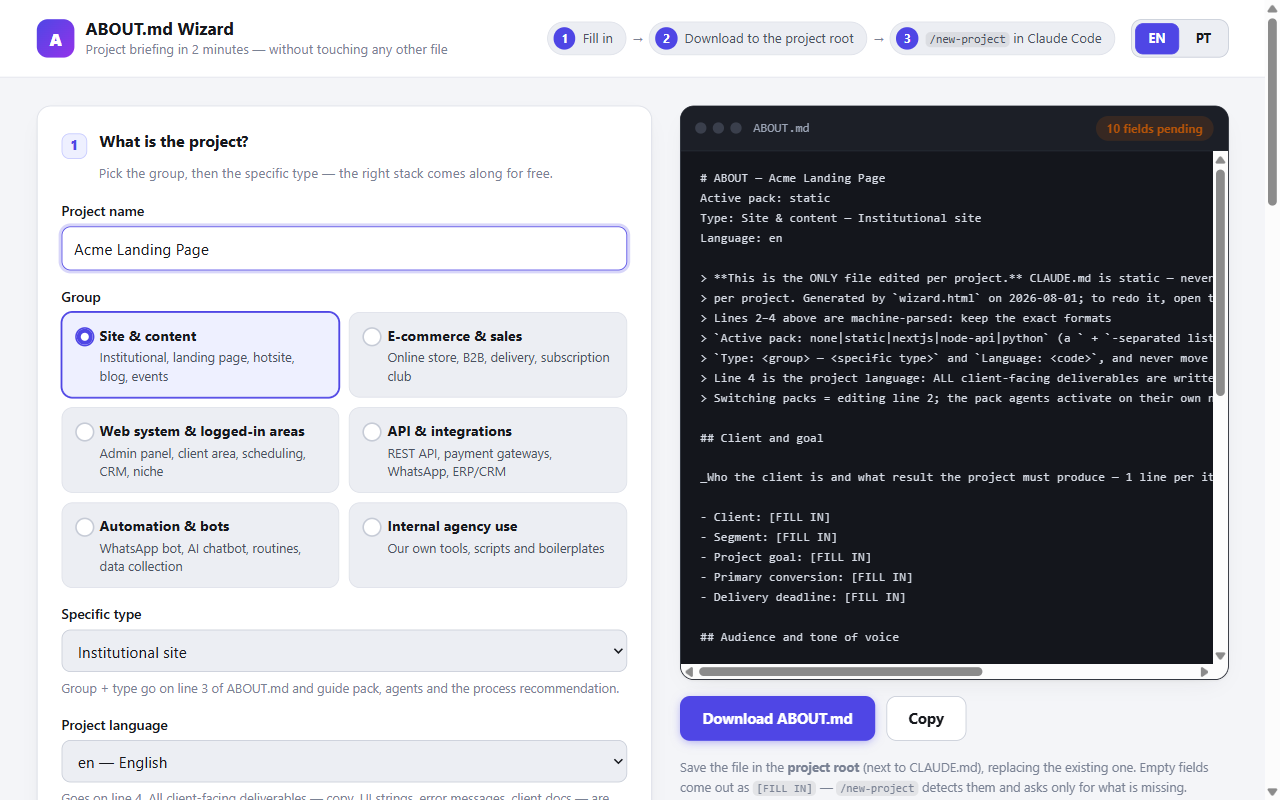
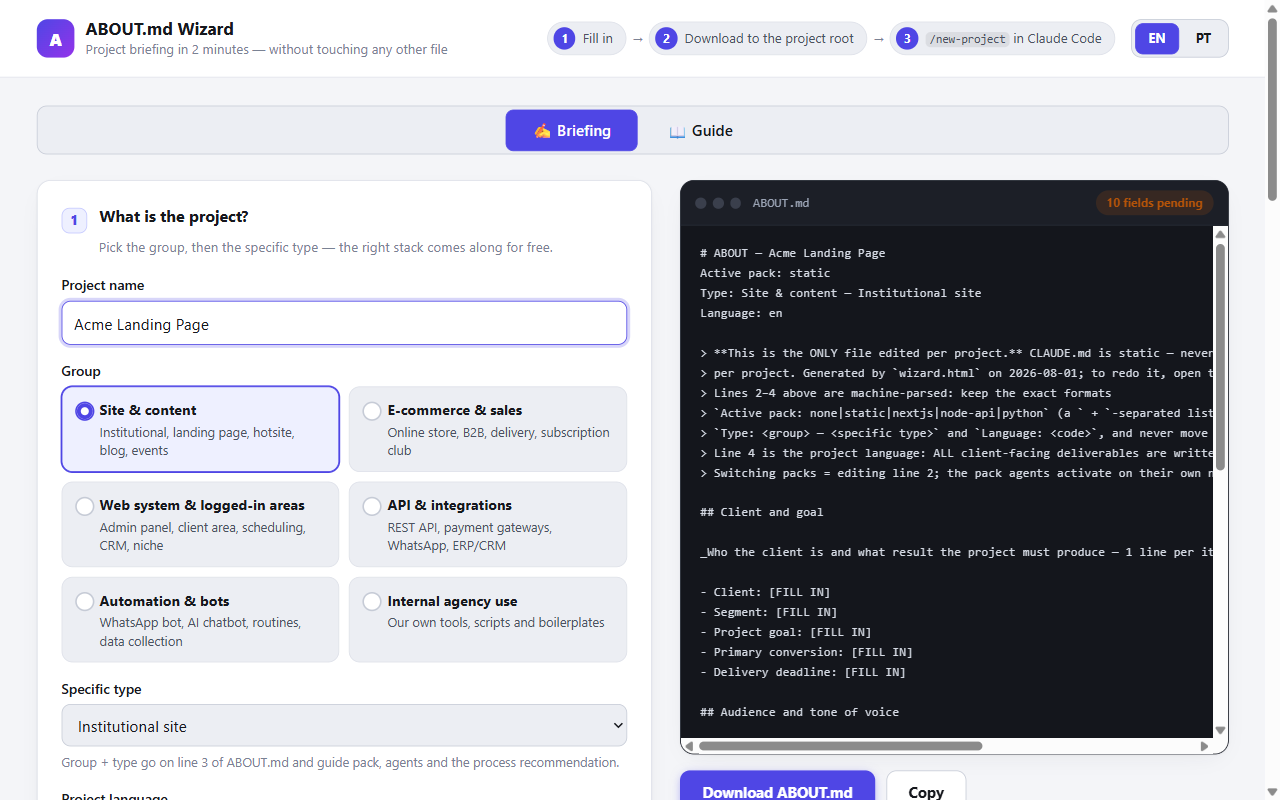
fix: first-impression audit — scaffold lints clean out of the box, editor noise gone, refreshed hero screenshot
- node-api health.ts: callback-style plugin so npm run lint passes as
  SCAFFOLD.md promises (sandbox-verified: lint/typecheck/test/build all 0)
- eslint.config.mjs: drop // @ts-check (imported packages don't exist in
  the template folder; editors flagged 4 phantom errors)
- new-project.md: MCP catalog heading reference aligned
- wizard.png: re-shot with the Briefing|Guide tab selector visible

diff --git a/.claude/packs/node-api/scaffold/src/routes/health.ts b/.claude/packs/node-api/scaffold/src/routes/health.ts
@@ -1,4 +1,4 @@
-import type { FastifyInstance } from 'fastify';
+import type { FastifyPluginCallback } from 'fastify';
 
 /** Health check response body. */
 interface HealthResponse {
@@ -14,9 +14,10 @@ interface HealthResponse {
  * Reference example for the routes layer: a route validates and delegates
  * to src/services/, it never contains business logic or data access.
  */
-export async function healthRoutes(app: FastifyInstance): Promise<void> {
-  app.get('/health', async (): Promise<HealthResponse> => ({
+export const healthRoutes: FastifyPluginCallback = (app, _opts, done) => {
+  app.get('/health', (): HealthResponse => ({
     status: 'ok',
     time: new Date().toISOString(),
   }));
-}
+  done();
+};

diff --git a/.claude/commands/new-project.md b/.claude/commands/new-project.md
@@ -73,7 +73,7 @@ Ask (or deduce from the directory): does the project start from scratch or does 
 
 If something does not show up, guide the user: `/mcp` to authenticate the OAuth ones, or `claude mcp reset-project-choices` and reopen. Do not try to install anything yourself.
 
-**4b. Suggest optionals by group** — open `.claude/mcp-catalog.md` ("Suggestions by group" table) and propose via AskUserQuestion (multiSelect) the MCPs for the group on line 3 of ABOUT.md — e.g. E-commerce → stripe, resend, meta-ads; Site → analytics-mcp, gsc. For each accepted one: copy the EXACT snippet from the catalog into `mcpServers` in the project's `.mcp.json` and warn: new servers load on the NEXT session; OAuth is resolved with `/mcp`; the ones requiring env vars are flagged in the catalog. None accepted = move on, they can be added later.
+**4b. Suggest optionals by group** — open `.claude/mcp-catalog.md` ("Suggestion by project group" table) and propose via AskUserQuestion (multiSelect) the MCPs for the group on line 3 of ABOUT.md — e.g. E-commerce → stripe, resend, meta-ads; Site → analytics-mcp, gsc. For each accepted one: copy the EXACT snippet from the catalog into `mcpServers` in the project's `.mcp.json` and warn: new servers load on the NEXT session; OAuth is resolved with `/mcp`; the ones requiring env vars are flagged in the catalog. None accepted = move on, they can be added later.
 
 ## Step 5 — Superpowers (if the `## Process` section of ABOUT.md says ACTIVE)
 
